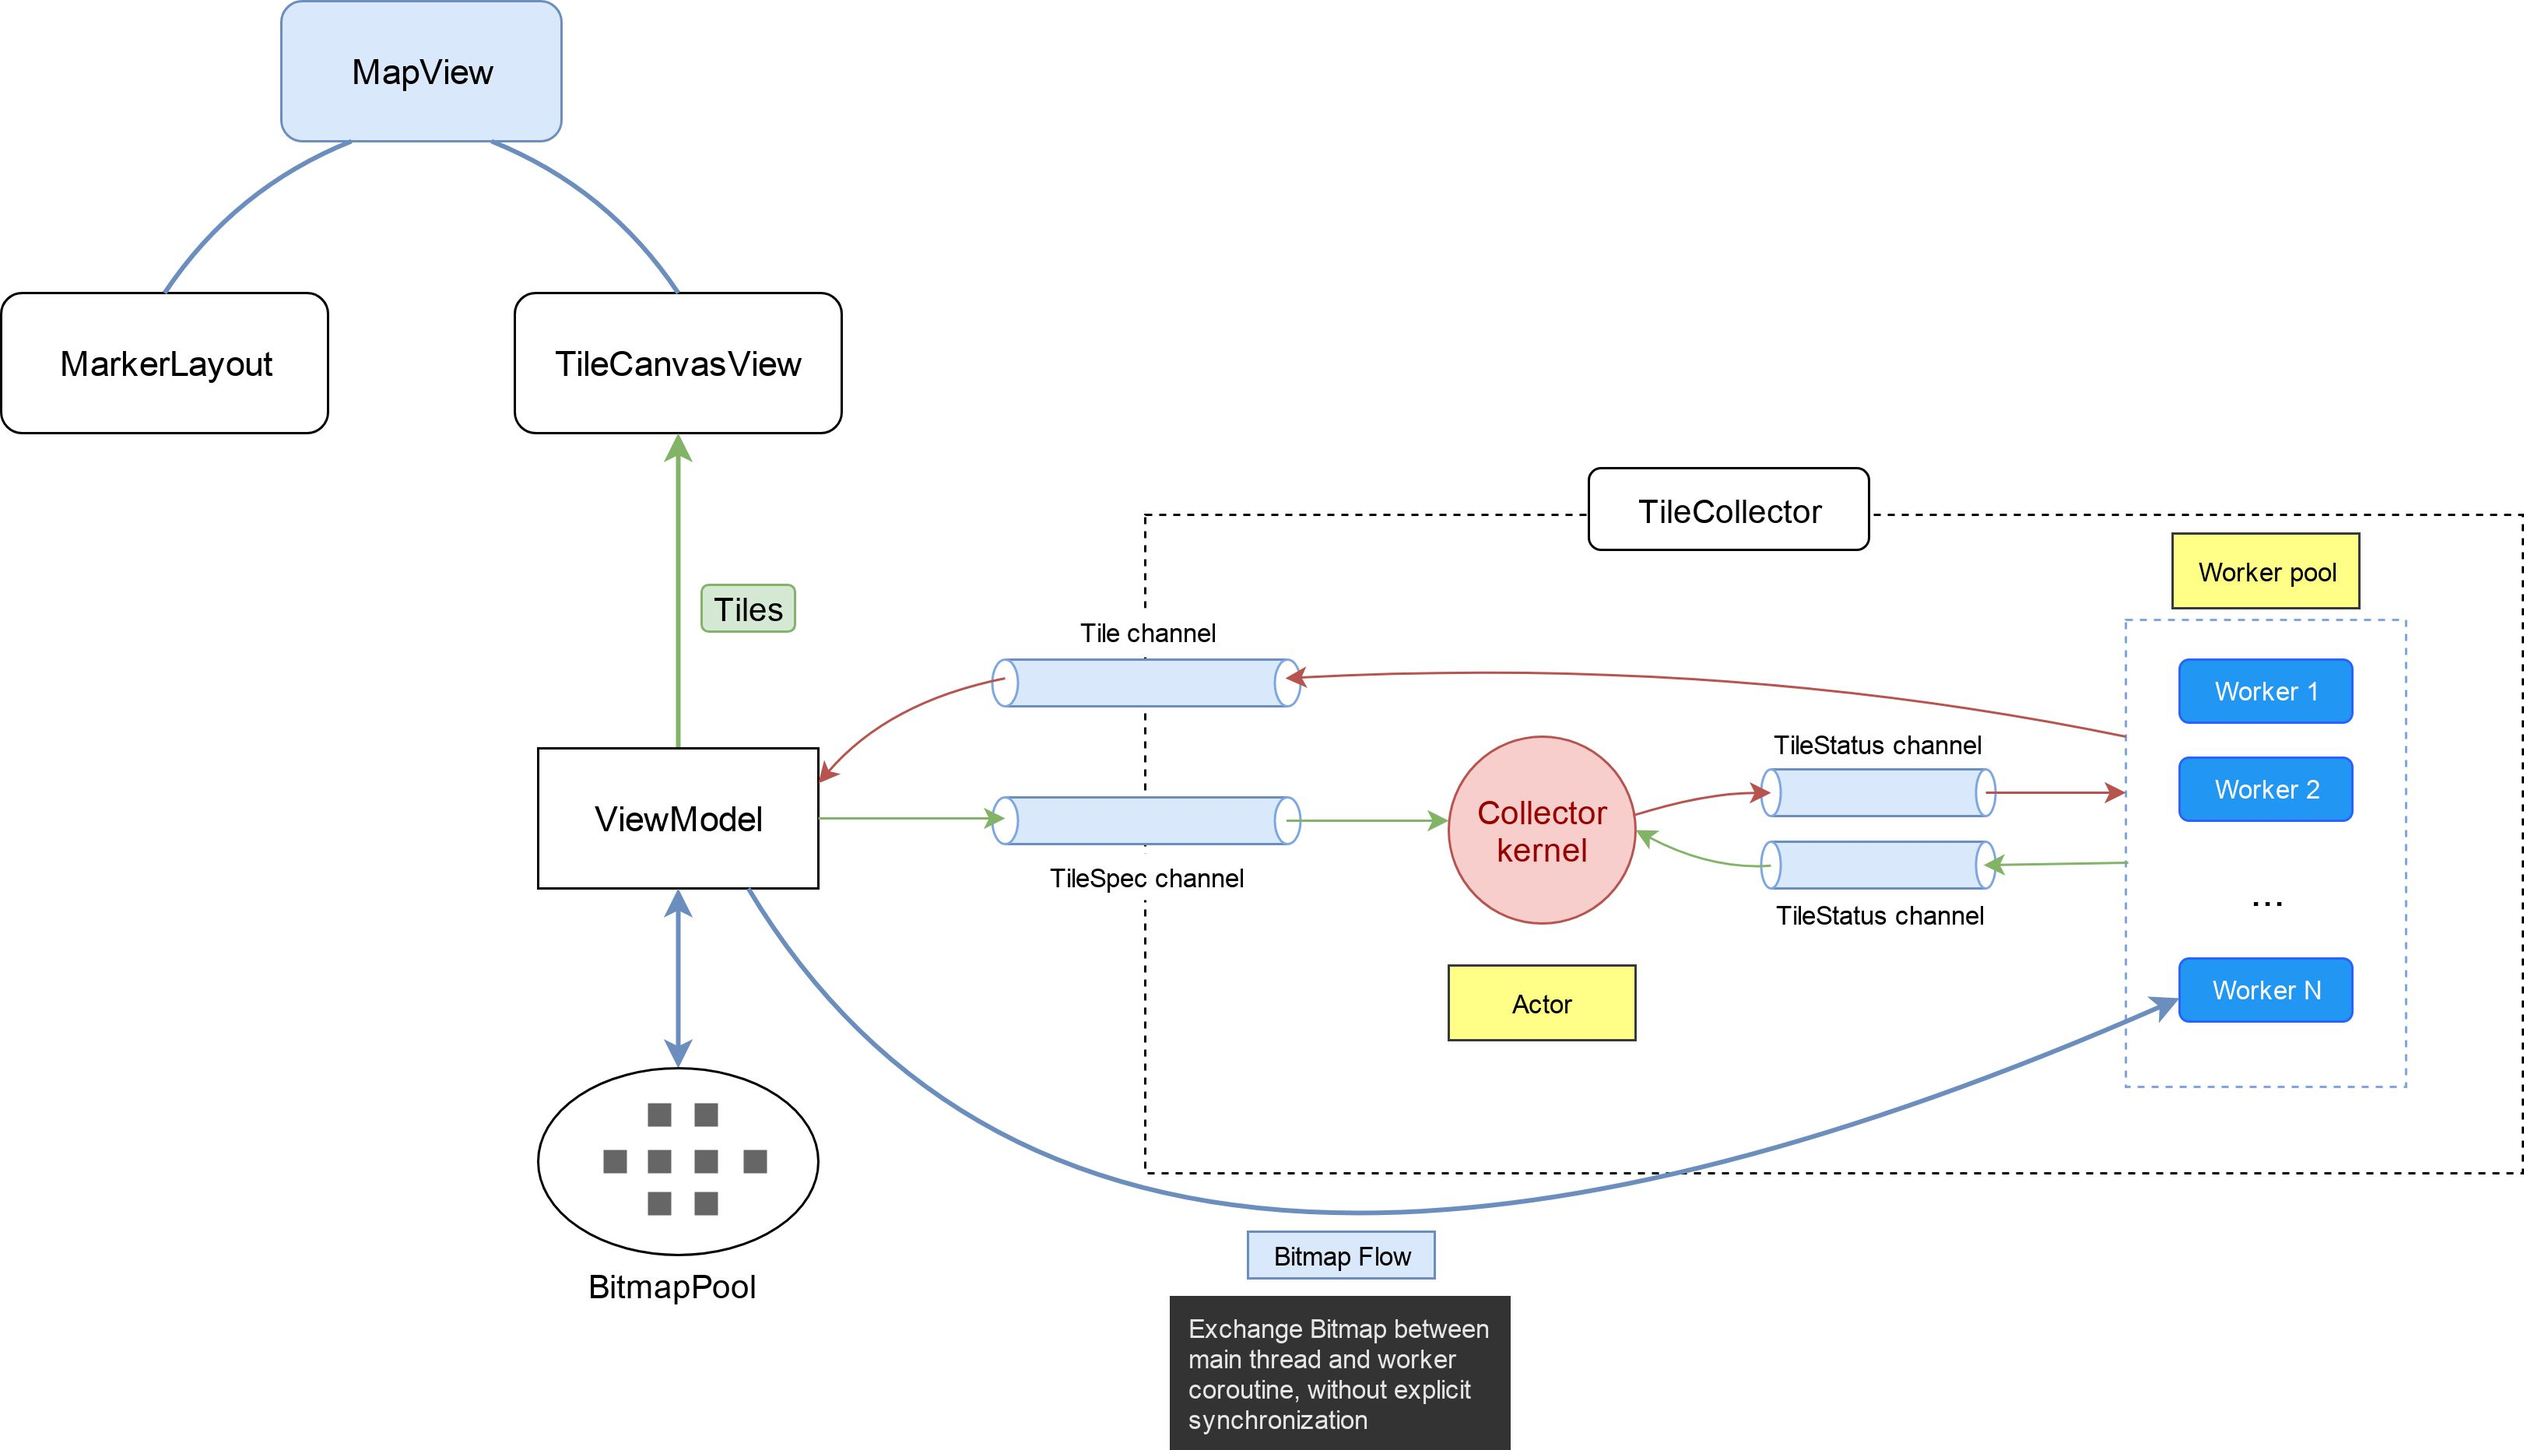
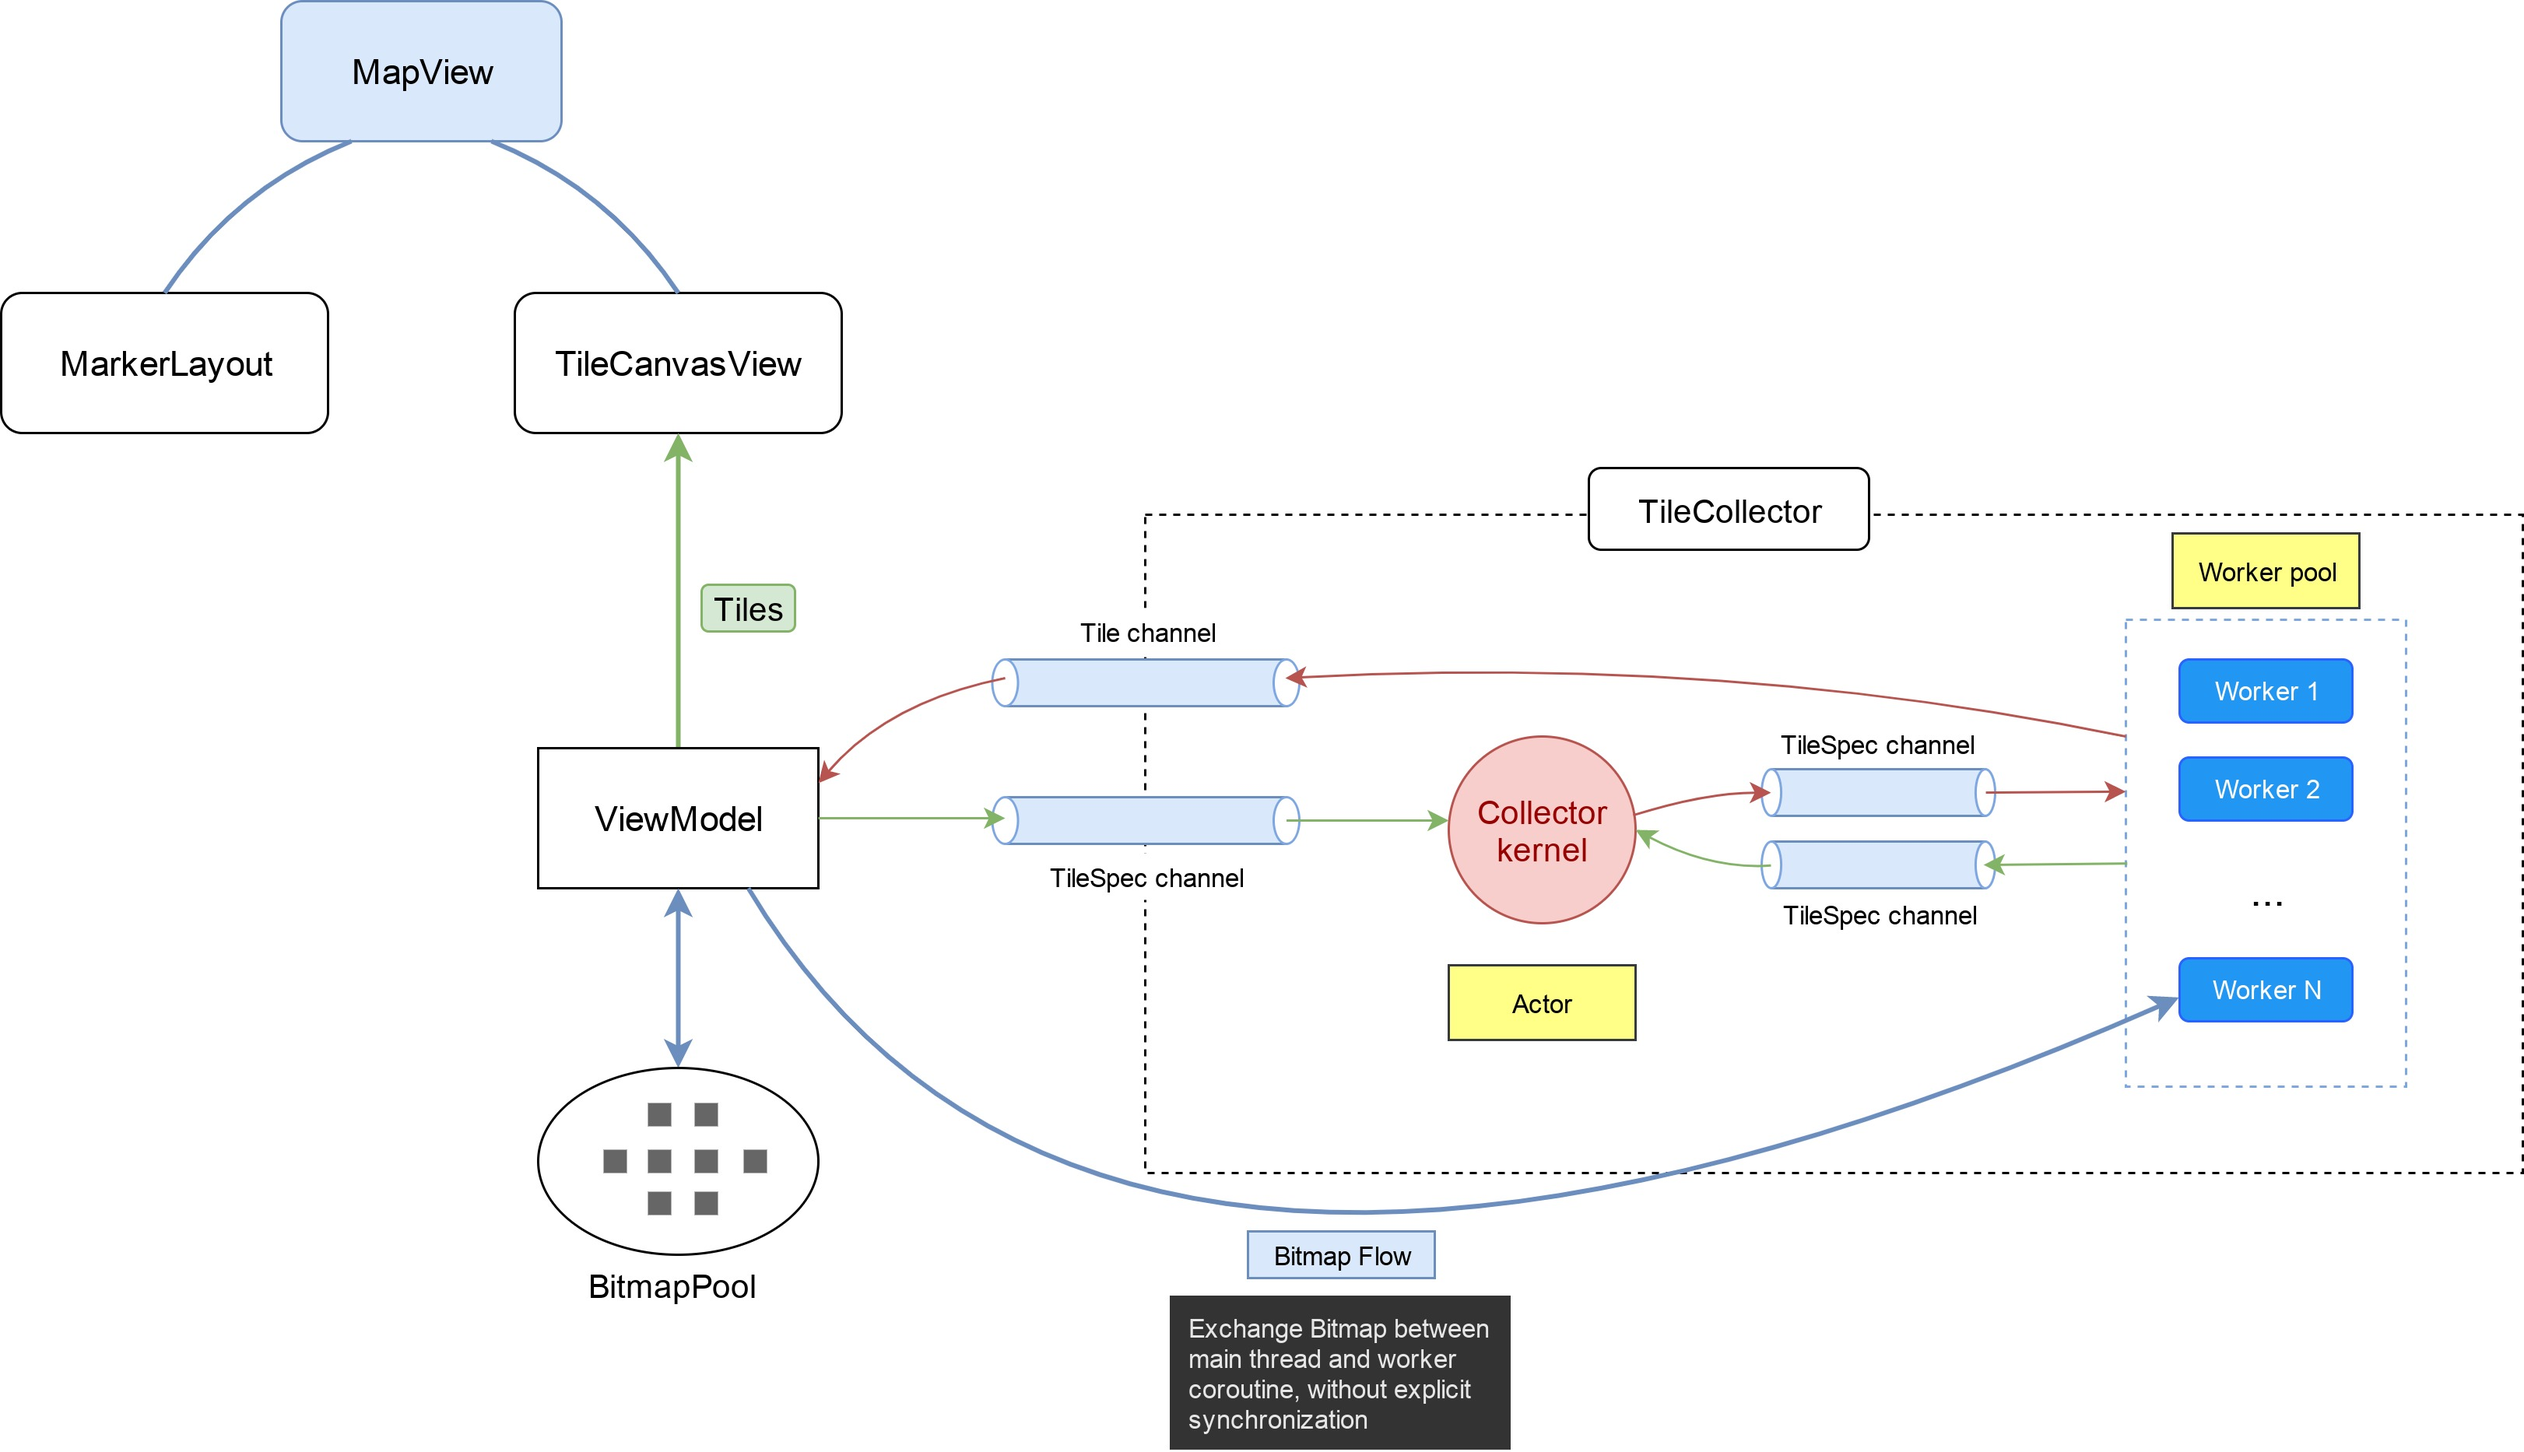
Greatly improve performance with remote HTTP tiles. Leverage back-pressure, simplified the core.
Update Readme

diff --git a/mapview/src/main/java/com/peterlaurence/mapview/core/TileCollector.kt b/mapview/src/main/java/com/peterlaurence/mapview/core/TileCollector.kt
@@ -2,12 +2,14 @@ package com.peterlaurence.mapview.core
 
 import android.graphics.Bitmap
 import android.graphics.BitmapFactory
-import kotlinx.coroutines.*
+import kotlinx.coroutines.CoroutineScope
+import kotlinx.coroutines.Dispatchers
 import kotlinx.coroutines.channels.Channel
 import kotlinx.coroutines.channels.ReceiveChannel
 import kotlinx.coroutines.channels.SendChannel
 import kotlinx.coroutines.flow.Flow
 import kotlinx.coroutines.flow.single
+import kotlinx.coroutines.launch
 import kotlinx.coroutines.selects.select
 
 
@@ -24,16 +26,17 @@ import kotlinx.coroutines.selects.select
  *              ---------------- [*********] <----------------------------------------------------- | | worker | |   |
  *             |                               |                                                    |  --------  |   |
  *             ↓                               |                                                    |  ________  |   |
- *  _____________________                      |                                  tileStatus        | | worker | |   |
+ *  _____________________                      |                                  tileSpecs         | | worker | |   |
  * | TileCanvasViewModel |                     |    _____________________  <---- [**********] <---- |  --------  |   |
  *  ---------------------  ----> [*********] ----> | tileCollectorKernel |                          |  ________  |   |
  *                                tileSpecs    |    ---------------------  ----> [**********] ----> | | worker | |   |
- *                                             |                                  tileStatus        |  --------  |   |
+ *                                             |                                  tileSpecs         |  --------  |   |
  *                                             |                                                    |____________|   |
  *                                             |                                                      worker pool    |
  *                                             |                                                                     |
  *                                              ---------------------------------------------------------------------
  * ```
+ * This architecture is an example of Communicating Sequential Processes (CSP).
  *
  * @author peterLaurence on 22/06/19
  */
@@ -42,22 +45,26 @@ class TileCollector(private val workerCount: Int) {
     /**
      * Sets up the tile collector machinery. The architecture is inspired from
      * [Kotlin Conf 2018](https://www.youtube.com/watch?v=a3agLJQ6vt8).
-     * @param [tileSpecs] channel of [TileSpec], which capacity should be [Channel.CONFLATED].
+     * It support back-pressure, and avoids deadlock in CSP taking into account recommendations of
+     * this [article](https://medium.com/@elizarov/deadlocks-in-non-hierarchical-csp-e5910d137cc),
+     * which is from the same author.
+     *
+     * @param [tileSpecs] channel of [TileSpec], which capacity should be [Channel.RENDEZVOUS].
      * @param [tilesOutput] channel of [Tile], which should be set as [Channel.RENDEZVOUS].
      */
-    fun CoroutineScope.collectTiles(tileSpecs: ReceiveChannel<List<TileSpec>>,
+    fun CoroutineScope.collectTiles(tileSpecs: ReceiveChannel<TileSpec>,
                                     tilesOutput: SendChannel<Tile>,
                                     tileStreamProvider: TileStreamProvider,
                                     bitmapFlow: Flow<Bitmap>) {
-        val tilesToDownload = Channel<TileStatus>(capacity = Channel.RENDEZVOUS)
-        val tilesDownloadedFromWorker = Channel<TileStatus>(capacity = Channel.UNLIMITED)
+        val tilesToDownload = Channel<TileSpec>(capacity = Channel.RENDEZVOUS)
+        val tilesDownloadedFromWorker = Channel<TileSpec>(capacity = 1)
 
         repeat(workerCount) { worker(tilesToDownload, tilesDownloadedFromWorker, tilesOutput, tileStreamProvider, bitmapFlow) }
         tileCollectorKernel(tileSpecs, tilesToDownload, tilesDownloadedFromWorker)
     }
 
-    private fun CoroutineScope.worker(tilesToDownload: ReceiveChannel<TileStatus>,
-                                      tilesDownloaded: SendChannel<TileStatus>,
+    private fun CoroutineScope.worker(tilesToDownload: ReceiveChannel<TileSpec>,
+                                      tilesDownloaded: SendChannel<TileSpec>,
                                       tilesOutput: SendChannel<Tile>,
                                       tileStreamProvider: TileStreamProvider,
                                       bitmapFlow: Flow<Bitmap>) = launch(Dispatchers.IO) {
@@ -65,15 +72,7 @@ class TileCollector(private val workerCount: Int) {
         val bitmapLoadingOptions = BitmapFactory.Options()
         bitmapLoadingOptions.inPreferredConfig = Bitmap.Config.RGB_565
 
-        for (tileStatus in tilesToDownload) {
-            /* If it was cancelled, do nothing and send back the TileSpec as is */
-            if (tileStatus.cancelled) {
-                tilesDownloaded.send(tileStatus)
-                continue
-            }
-
-            val spec = tileStatus.spec
-
+        for (spec in tilesToDownload) {
             val i = tileStreamProvider.getTileStream(spec.row, spec.col, spec.zoom)
 
             if (spec.subSample > 0) {
@@ -97,44 +96,33 @@ class TileCollector(private val workerCount: Int) {
             } catch (e: Exception) {
                 // maybe retry
             } finally {
-                tilesDownloaded.send(tileStatus)
+                tilesDownloaded.send(spec)
                 i?.close()
             }
         }
     }
 
-    private fun CoroutineScope.tileCollectorKernel(tileSpecs: ReceiveChannel<List<TileSpec>>,
-                                                   tilesToDownload: SendChannel<TileStatus>,
-                                                   tilesDownloadedFromWorker: ReceiveChannel<TileStatus>) = launch(Dispatchers.Default) {
+    private fun CoroutineScope.tileCollectorKernel(tileSpecs: ReceiveChannel<TileSpec>,
+                                                   tilesToDownload: SendChannel<TileSpec>,
+                                                   tilesDownloadedFromWorker: ReceiveChannel<TileSpec>) = launch(Dispatchers.Default) {
 
-        val tilesBeingProcessed = mutableListOf<TileStatus>()
+        val tilesBeingProcessed = mutableListOf<TileSpec>()
 
         while (true) {
             select<Unit> {
-                tileSpecs.onReceive {
-                    for (loc in it) {
-                        if (!tilesBeingProcessed.any { status -> status.spec == loc }) {
-                            /* Add it to the list of locations being processed */
-                            val status = TileStatus(loc)
-                            tilesBeingProcessed.add(status)
-
-                            /* Now download the tile */
-                            tilesToDownload.send(status)
-                        }
-                    }
-                    for (status in tilesBeingProcessed) {
-                        if (!it.contains(status.spec)) {
-                            status.cancelled = true
-                        }
-                    }
-                }
-
                 tilesDownloadedFromWorker.onReceive {
                     tilesBeingProcessed.remove(it)
+                }
+                tileSpecs.onReceive {
+                    if (!tilesBeingProcessed.any { spec -> spec == it }) {
+                        /* Add it to the list of locations being processed */
+                        tilesBeingProcessed.add(it)
+
+                        /* Now download the tile */
+                        tilesToDownload.send(it)
+                    }
                 }
             }
         }
     }
-
-    data class TileStatus(val spec: TileSpec, @Volatile var cancelled: Boolean = false)
 }

diff --git a/mapview/src/main/java/com/peterlaurence/mapview/viewmodel/TileCanvasViewModel.kt b/mapview/src/main/java/com/peterlaurence/mapview/viewmodel/TileCanvasViewModel.kt
@@ -7,6 +7,7 @@ import androidx.lifecycle.MutableLiveData
 import com.peterlaurence.mapview.core.*
 import kotlinx.coroutines.CoroutineScope
 import kotlinx.coroutines.Dispatchers
+import kotlinx.coroutines.Job
 import kotlinx.coroutines.channels.Channel
 import kotlinx.coroutines.channels.ReceiveChannel
 import kotlinx.coroutines.flow.Flow
@@ -37,8 +38,9 @@ class TileCanvasViewModel(private val scope: CoroutineScope, tileSize: Int,
 
     private val bitmapPool = BitmapPool()
     private val paintPool = PaintPool()
-    private val visibleTileLocationsChannel = Channel<List<TileSpec>>(capacity = Channel.CONFLATED)
+    private val visibleTileLocationsChannel = Channel<TileSpec>(capacity = Channel.RENDEZVOUS)
     private val tilesOutput = Channel<Tile>(capacity = Channel.RENDEZVOUS)
+    private var tileCollectionJob: Job? = null
 
     /**
      * A [Flow] of [Bitmap] that first collects from the [bitmapPool] on the Main thread. If the
@@ -90,7 +92,11 @@ class TileCanvasViewModel(private val scope: CoroutineScope, tileSize: Int,
     }
 
     private fun setVisibleTiles(visibleTiles: VisibleTiles) {
-        collectNewTiles(visibleTiles)
+        /* Cancel the previous job, to avoid overwhelming the tile collector */
+        tileCollectionJob?.cancel()
+        tileCollectionJob = launch {
+            collectNewTiles(visibleTiles)
+        }
 
         lastVisible = visibleTiles
         lastVisibleCount = visibleTiles.getNumberOfTiles()
@@ -100,14 +106,19 @@ class TileCanvasViewModel(private val scope: CoroutineScope, tileSize: Int,
         renderThrottled()
     }
 
-    private fun collectNewTiles(visibleTiles: VisibleTiles) {
+    private suspend fun collectNewTiles(visibleTiles: VisibleTiles) {
         val locations = visibleTiles.toTileSpecs()
         val locationWithoutTile = locations.filterNot { loc ->
             tilesToRender.any {
                 it.sameSpecAs(loc)
             }
         }
-        visibleTileLocationsChannel.offer(locationWithoutTile)
+
+        /* Here, we're leveraging built-in back pressure, as this will suspend when the tile collector
+         * is busy to the point it can't handshake the channel. */
+        for (tileSpec in locationWithoutTile) {
+            visibleTileLocationsChannel.send(tileSpec)
+        }
     }
 
     /**

diff --git a/mapview/src/test/java/com/peterlaurence/mapview/core/TileCollectorTest.kt b/mapview/src/test/java/com/peterlaurence/mapview/core/TileCollectorTest.kt
@@ -50,9 +50,8 @@ class TileCollectorTest {
         val imageFile = File(assetsDir, "10.jpg")
         assertTrue(imageFile.exists())
 
-
         /* Setup the channels */
-        val visibleTileLocationsChannel = Channel<List<TileSpec>>(capacity = Channel.CONFLATED)
+        val visibleTileLocationsChannel = Channel<TileSpec>(capacity = Channel.RENDEZVOUS)
         val tilesOutput = Channel<Tile>(capacity = Channel.RENDEZVOUS)
 
         val pool = BitmapPool()
@@ -106,7 +105,9 @@ class TileCollectorTest {
                     TileSpec(0, 1, 1),
                     TileSpec(0, 2, 1)
             )
-            visibleTileLocationsChannel.send(locations1)
+            for (spec in locations1) {
+                visibleTileLocationsChannel.send(spec)
+            }
             delay(100)
             val locations2 = listOf(
                     TileSpec(1, 0, 0),
@@ -114,7 +115,9 @@ class TileCollectorTest {
                     TileSpec(1, 2, 1)
             )
             /* Bitmaps inside the pool should be used */
-            visibleTileLocationsChannel.send(locations2)
+            for (spec in locations2) {
+                visibleTileLocationsChannel.send(spec)
+            }
 
             // wait a little, then cancel the job
             delay(1000)

diff --git a/Readme.md b/Readme.md
@@ -1,4 +1,4 @@
-[ ![Download](https://api.bintray.com/packages/peterlaurence/maven/mapview/images/download.svg?version=1.0.3) ](https://bintray.com/peterlaurence/maven/mapview/1.0.3/link)
+[ ![Download](https://api.bintray.com/packages/peterlaurence/maven/mapview/images/download.svg?version=1.0.4) ](https://bintray.com/peterlaurence/maven/mapview/1.0.4/link)
 
 # MapView
 
@@ -29,7 +29,7 @@ This project holds the source code of this library, but also a demo app (which i
 
 Add this to your module's build.gradle
 ```groovy
-implementation 'com.peterlaurence:mapview:1.0.3'
+implementation 'com.peterlaurence:mapview:1.0.4'
 ```
 
 ## Origin and motivation
